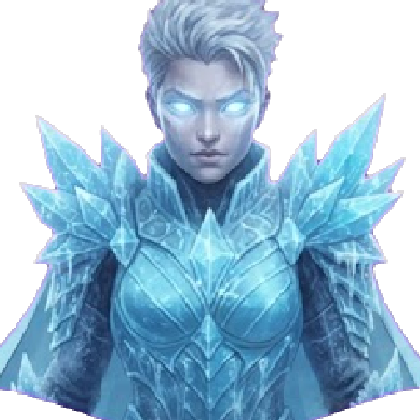
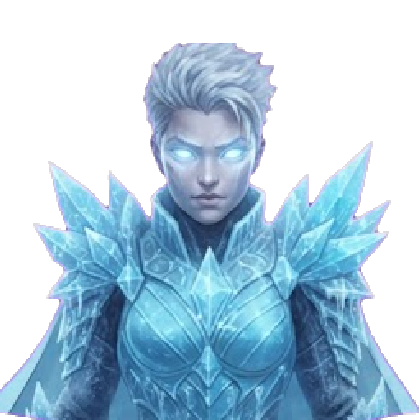
Lower frost/tide select portraits further so heads aren't cut (ASSET_VERSION 19)

diff --git a/src/game/sprites.js b/src/game/sprites.js
@@ -14,7 +14,7 @@ const BASE = import.meta.env.BASE_URL || '/';
 // Bump this whenever portrait/sprite PNGs are re-exported. Vite does NOT hash
 // files under public/, so browsers (and the dev server) can serve a stale
 // cached copy after art updates — the version query forces a fresh fetch.
-const ASSET_VERSION = '18';
+const ASSET_VERSION = '19';
 const v = (url) => `${url}${url.includes('?') ? '&' : '?'}v=${ASSET_VERSION}`;
 
 /**